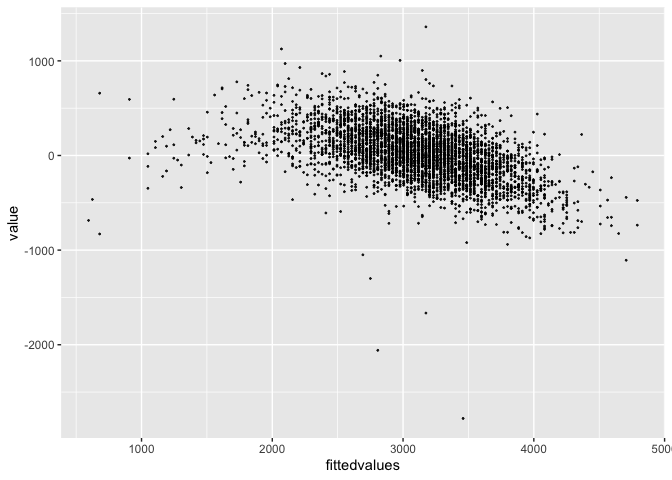
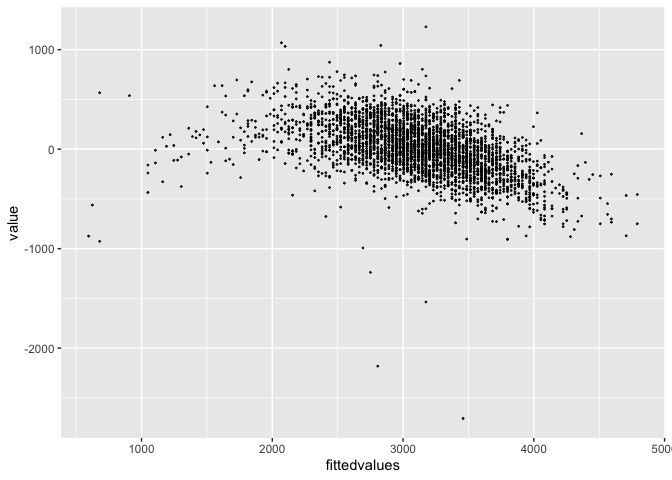
Problem 3 - cross-validation

diff --git a/p8105_hw6_tjs2193.md b/p8105_hw6_tjs2193.md
@@ -296,7 +296,7 @@ Splitting data into training and test sets.
 
 ``` r
 bwt_df_train =
-  sample_n(bwt_df, 200)
+  sample_n(bwt_df, 869)
 
 
 
@@ -315,7 +315,7 @@ bwt_df_train =
 bwt_df_train
 ```
 
-    ## # A tibble: 200 × 20
+    ## # A tibble: 869 × 20
     ##    babysex bhead blength   bwt delwt fincome frace       gaweeks malform menar…¹
     ##    <fct>   <dbl>   <dbl> <dbl> <dbl>   <dbl> <fct>         <dbl> <lgl>     <dbl>
     ##  1 female     34      48  2948   262      65 black          41.4 FALSE        13
@@ -328,7 +328,7 @@ bwt_df_train
     ##  8 female     32      50  3147   143      25 black          43.3 FALSE        11
     ##  9 male       35      51  3289   126      55 black          40.1 FALSE        14
     ## 10 male       35      51  3090   136      15 puerto ric…    39.6 FALSE        12
-    ## # … with 190 more rows, 10 more variables: mheight <dbl>, momage <dbl>,
+    ## # … with 859 more rows, 10 more variables: mheight <dbl>, momage <dbl>,
     ## #   mrace <fct>, parity <dbl>, pnumlbw <dbl>, pnumsga <dbl>, ppbmi <dbl>,
     ## #   ppwt <dbl>, smoken <dbl>, wtgain <dbl>, and abbreviated variable name
     ## #   ¹menarche
@@ -338,7 +338,7 @@ bwt_df_train
 bwt_df_test
 ```
 
-    ## # A tibble: 4,142 × 20
+    ## # A tibble: 3,473 × 20
     ##    babysex bhead blength   bwt delwt fincome frace gaweeks malform menarche
     ##    <fct>   <dbl>   <dbl> <dbl> <dbl>   <dbl> <fct>   <dbl> <lgl>      <dbl>
     ##  1 female     34      51  3629   177      35 white    39.9 FALSE         13
@@ -351,7 +351,7 @@ bwt_df_test
     ##  8 female     33      49  2778   140       5 white    37.4 FALSE         12
     ##  9 male       36      52  3515   146      85 white    40.3 FALSE         11
     ## 10 male       33      50  3459   169      75 black    40.7 FALSE         12
-    ## # … with 4,132 more rows, and 10 more variables: mheight <dbl>, momage <dbl>,
+    ## # … with 3,463 more rows, and 10 more variables: mheight <dbl>, momage <dbl>,
     ## #   mrace <fct>, parity <dbl>, pnumlbw <dbl>, pnumsga <dbl>, ppbmi <dbl>,
     ## #   ppwt <dbl>, smoken <dbl>, wtgain <dbl>
     ## # ℹ Use `print(n = ...)` to see more rows, and `colnames()` to see all variable names
@@ -374,46 +374,47 @@ opt_lambda =
 opt_lambda
 ```
 
-    ## [1] 5.507352
+    ## [1] 3.702804
 
 ### Fitting lasso regression model
 
 ``` r
-lasso_bwt_train =
+lasso_bwt =
   glmnet(x1, y, lambda = opt_lambda)
 ```
 
 ### Results of our model
 
 ``` r
-lasso_bwt_train %>%
+lasso_bwt %>%
   broom::tidy()
 ```
 
-    ## # A tibble: 15 × 5
+    ## # A tibble: 16 × 5
     ##    term               step  estimate lambda dev.ratio
     ##    <chr>             <dbl>     <dbl>  <dbl>     <dbl>
-    ##  1 (Intercept)           1 -6706.      5.51     0.743
-    ##  2 babysexfemale         1    23.9     5.51     0.743
-    ##  3 bhead                 1   107.      5.51     0.743
-    ##  4 blength               1    90.6     5.51     0.743
-    ##  5 delwt                 1     0.295   5.51     0.743
-    ##  6 fincome               1     0.887   5.51     0.743
-    ##  7 fraceblack            1  -162.      5.51     0.743
-    ##  8 fraceasian            1   240.      5.51     0.743
-    ##  9 gaweeks               1    10.6     5.51     0.743
-    ## 10 mheight               1    16.4     5.51     0.743
-    ## 11 momage                1     9.73    5.51     0.743
-    ## 12 mraceasian            1  -355.      5.51     0.743
-    ## 13 mracepuerto rican     1  -133.      5.51     0.743
-    ## 14 ppwt                  1     0.661   5.51     0.743
-    ## 15 smoken                1    -4.53    5.51     0.743
+    ##  1 (Intercept)           1 -6482.      3.70     0.720
+    ##  2 babysexfemale         1    28.0     3.70     0.720
+    ##  3 bhead                 1   123.      3.70     0.720
+    ##  4 blength               1    86.5     3.70     0.720
+    ##  5 delwt                 1     1.79    3.70     0.720
+    ##  6 fincome               1     0.260   3.70     0.720
+    ##  7 fracepuerto rican     1   -47.6     3.70     0.720
+    ##  8 fraceother            1   -94.9     3.70     0.720
+    ##  9 gaweeks               1    10.5     3.70     0.720
+    ## 10 malformTRUE           1    65.1     3.70     0.720
+    ## 11 mheight               1     6.55    3.70     0.720
+    ## 12 momage                1     3.60    3.70     0.720
+    ## 13 mraceblack            1  -106.      3.70     0.720
+    ## 14 mraceasian            1   -87.7     3.70     0.720
+    ## 15 smoken                1    -3.61    3.70     0.720
+    ## 16 wtgain                1     2.20    3.70     0.720
 
 ### Plot of predictions versus residuals
 
 ``` r
 predicted =
-  predict(lasso_bwt_train, s = opt_lambda, newx = x1_test) 
+  predict(lasso_bwt, s = opt_lambda, newx = x1_test) 
 
 residual =
   predicted - y_test %>%
@@ -438,25 +439,13 @@ plot_df =
   cbind(fittedvalues, predicted, residual) %>%
   as.tibble()
 
+rsme = 
+  sqrt(mean(plot_df$value))
 
-plot_df
+rsme
 ```
 
-    ## # A tibble: 4,142 × 3
-    ##    fittedvalues    s1  value
-    ##           <dbl> <dbl>  <dbl>
-    ##  1         3629 3560.  -69.5
-    ##  2         3062 2887. -175. 
-    ##  3         3345 3655.  310. 
-    ##  4         3062 3421.  359. 
-    ##  5         3374 3512.  138. 
-    ##  6         3374 3432.   58.2
-    ##  7         2523 2932.  409. 
-    ##  8         2778 3007.  229. 
-    ##  9         3515 3595.   79.6
-    ## 10         3459 3049. -410. 
-    ## # … with 4,132 more rows
-    ## # ℹ Use `print(n = ...)` to see more rows
+    ## [1] 2.961278
 
 ``` r
 plot =
@@ -475,3 +464,72 @@ test set and plotted their residuals. The residuals show a fairly
 symmetrical pattern, clustered around zero, indicating that this is a
 useful model. There are a few outliers noted, such as the the one around
 \~3500 g bwt.
+
+### Cross-validation against other models.
+
+Building model with gestational age and length as predictors
+
+``` r
+model_ga_bl =
+  bwt_df_train %>%
+    lm( bwt ~ gaweeks + blength, data =.)
+
+model_ga_bl %>%
+  broom::tidy()
+```
+
+    ## # A tibble: 3 × 5
+    ##   term        estimate std.error statistic   p.value
+    ##   <chr>          <dbl>     <dbl>     <dbl>     <dbl>
+    ## 1 (Intercept)  -4932.     229.      -21.5  1.43e- 82
+    ## 2 gaweeks         24.4      3.95      6.19 9.24e- 10
+    ## 3 blength        143.       4.68     30.5  2.81e-139
+
+Building model with head circumference, length, sex and their
+interactions.
+
+``` r
+model_int =
+  bwt_df_train %>%
+    lm( bwt ~ babysex + bhead + blength + babysex*bhead + babysex*blength + bhead*blength + bhead*blength*babysex, data =.)
+
+model_int %>%
+  broom::tidy()
+```
+
+    ## # A tibble: 8 × 5
+    ##   term                         estimate std.error statistic p.value
+    ##   <chr>                           <dbl>     <dbl>     <dbl>   <dbl>
+    ## 1 (Intercept)                 -10802.     3985.      -2.71  0.00685
+    ## 2 babysexfemale                 4261.     5043.       0.845 0.398  
+    ## 3 bhead                          268.      119.       2.25  0.0248 
+    ## 4 blength                        183.       80.7      2.27  0.0235 
+    ## 5 babysexfemale:bhead           -129.      152.      -0.845 0.398  
+    ## 6 babysexfemale:blength          -81.2     103.      -0.789 0.431  
+    ## 7 bhead:blength                   -2.52      2.40    -1.05  0.293  
+    ## 8 babysexfemale:bhead:blength      2.48      3.09     0.803 0.422
+
+Performing cross-validation of models
+
+``` r
+cv_df = 
+  crossv_mc(bwt_df, 100) 
+
+cv_df
+```
+
+    ## # A tibble: 100 × 3
+    ##    train                   test                  .id  
+    ##    <list>                  <list>                <chr>
+    ##  1 <resample [3,473 x 21]> <resample [869 x 21]> 001  
+    ##  2 <resample [3,473 x 21]> <resample [869 x 21]> 002  
+    ##  3 <resample [3,473 x 21]> <resample [869 x 21]> 003  
+    ##  4 <resample [3,473 x 21]> <resample [869 x 21]> 004  
+    ##  5 <resample [3,473 x 21]> <resample [869 x 21]> 005  
+    ##  6 <resample [3,473 x 21]> <resample [869 x 21]> 006  
+    ##  7 <resample [3,473 x 21]> <resample [869 x 21]> 007  
+    ##  8 <resample [3,473 x 21]> <resample [869 x 21]> 008  
+    ##  9 <resample [3,473 x 21]> <resample [869 x 21]> 009  
+    ## 10 <resample [3,473 x 21]> <resample [869 x 21]> 010  
+    ## # … with 90 more rows
+    ## # ℹ Use `print(n = ...)` to see more rows
